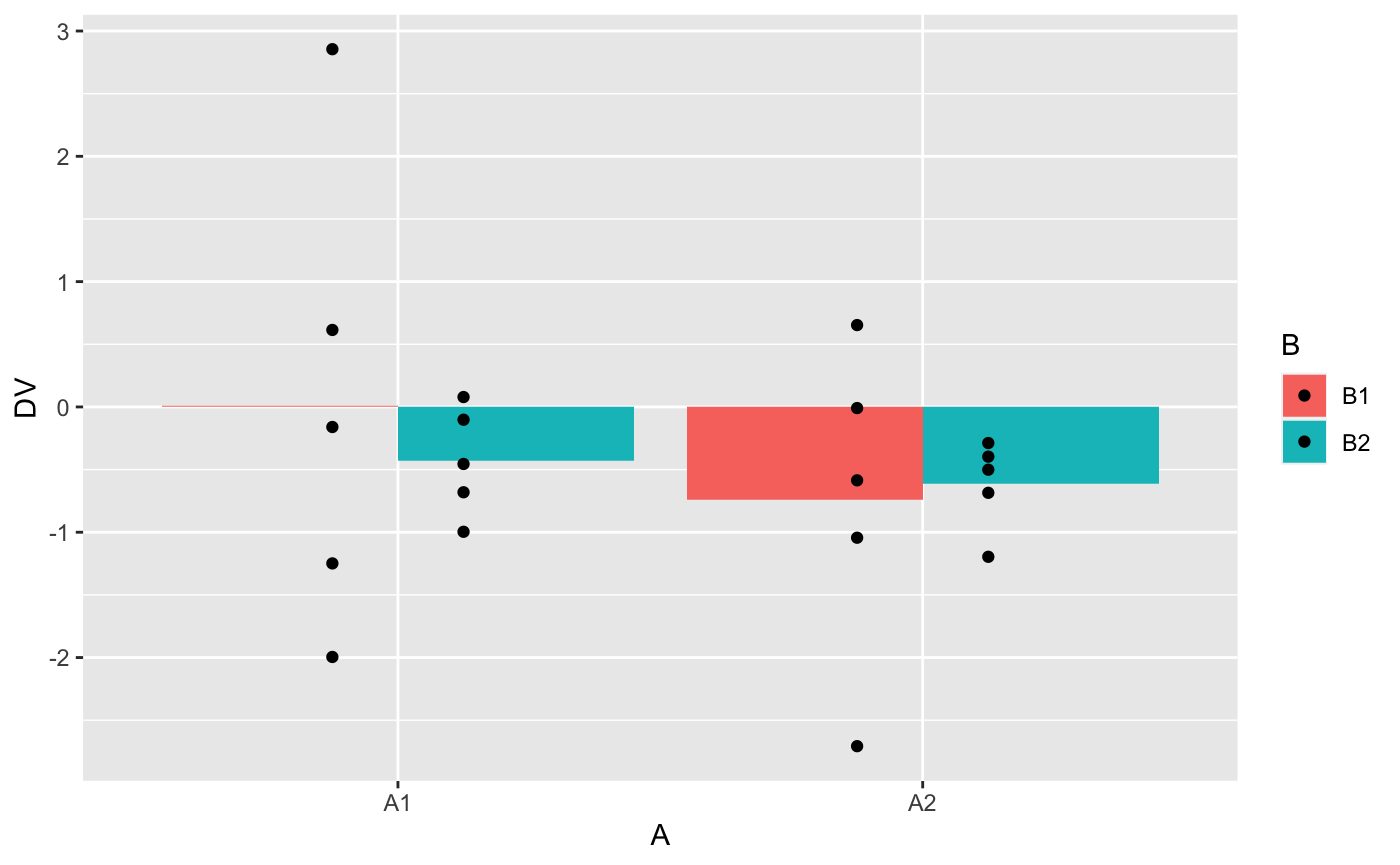
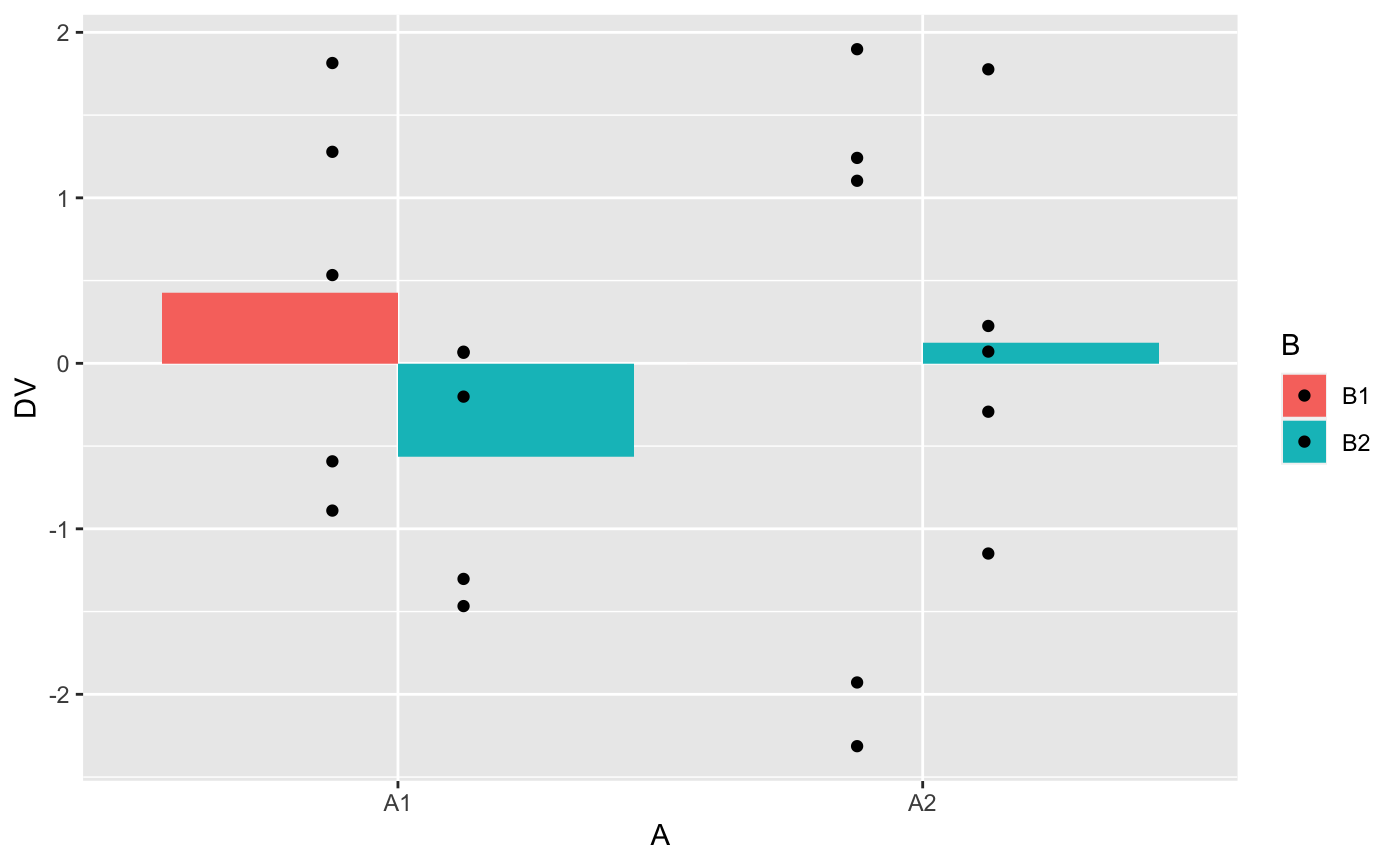
update factorial anova lab 7

diff --git a/docs/articles/Stats2/Lab7_Factorial_ANOVA.html b/docs/articles/Stats2/Lab7_Factorial_ANOVA.html
@@ -236,6 +236,8 @@
 <h2 class="hasAnchor">
 <a href="#reading" class="anchor"></a>Reading</h2>
 <p>Chapter 16 from <span class="citation"><a href="#ref-abdiExperimentalDesignAnalysis2009" role="doc-biblioref">Abdi et al.</a> (<a href="#ref-abdiExperimentalDesignAnalysis2009" role="doc-biblioref">2009</a>)</span>. See also Chapters <a href="https://crumplab.github.io/statistics/factorial-anova.html">9</a> and <a href="https://crumplab.github.io/statistics/more-on-factorial-designs.html">10</a> from <span class="citation"><a href="#ref-crumpAnsweringQuestionsData2018" role="doc-biblioref">Crump et al.</a> (<a href="#ref-crumpAnsweringQuestionsData2018" role="doc-biblioref">2018</a>)</span> on factorial designs.</p>
+<iframe width="560" height="315" src="https://www.youtube.com/embed/hjQ3DC2dIcc" title="YouTube video player" frameborder="0" allow="accelerometer; autoplay; clipboard-write; encrypted-media; gyroscope; picture-in-picture" allowfullscreen>
+</iframe>
 </div>
 <div id="overview" class="section level2">
 <h2 class="hasAnchor">
@@ -269,34 +271,34 @@
 <p>In the example below I replaced each of the variable names with the names of the respective columns in the <code>factorial_data</code> tibble.</p>
 <div class="sourceCode" id="cb2"><html><body><pre class="r"><span class="no">aov_out</span> <span class="kw">&lt;-</span> <span class="fu"><a href="https://rdrr.io/r/stats/aov.html">aov</a></span>(<span class="no">DV</span> ~ <span class="no">A</span>*<span class="no">B</span>, <span class="kw">data</span> <span class="kw">=</span> <span class="no">factorial_data</span>)
 <span class="fu"><a href="https://rdrr.io/r/base/summary.html">summary</a></span>(<span class="no">aov_out</span>)
-<span class="co">#&gt;             Df Sum Sq Mean Sq F value  Pr(&gt;F)   </span>
-<span class="co">#&gt; A            1  0.299   0.299   0.885 0.36092   </span>
-<span class="co">#&gt; B            1  0.389   0.389   1.151 0.29916   </span>
-<span class="co">#&gt; A:B          1  4.891   4.891  14.491 0.00155 **</span>
-<span class="co">#&gt; Residuals   16  5.400   0.338                   </span>
+<span class="co">#&gt;             Df Sum Sq Mean Sq F value Pr(&gt;F)  </span>
+<span class="co">#&gt; A            1  4.328   4.328   7.178 0.0165 *</span>
+<span class="co">#&gt; B            1  0.021   0.021   0.034 0.8552  </span>
+<span class="co">#&gt; A:B          1  0.639   0.639   1.060 0.3185  </span>
+<span class="co">#&gt; Residuals   16  9.648   0.603                 </span>
 <span class="co">#&gt; ---</span>
 <span class="co">#&gt; Signif. codes:  0 '***' 0.001 '**' 0.01 '*' 0.05 '.' 0.1 ' ' 1</span>
 <span class="fu"><a href="https://rdrr.io/r/stats/model.tables.html">model.tables</a></span>(<span class="no">aov_out</span>, <span class="kw">type</span> <span class="kw">=</span> <span class="st">"means"</span>)
 <span class="co">#&gt; Tables of means</span>
 <span class="co">#&gt; Grand mean</span>
-<span class="co">#&gt;           </span>
-<span class="co">#&gt; 0.2416105 </span>
+<span class="co">#&gt;            </span>
+<span class="co">#&gt; -0.1605427 </span>
 <span class="co">#&gt; </span>
 <span class="co">#&gt;  A </span>
 <span class="co">#&gt; A</span>
-<span class="co">#&gt;     L1     L2 </span>
-<span class="co">#&gt; 0.1194 0.3638 </span>
+<span class="co">#&gt;      L1      L2 </span>
+<span class="co">#&gt; -0.6257  0.3047 </span>
 <span class="co">#&gt; </span>
 <span class="co">#&gt;  B </span>
 <span class="co">#&gt; B</span>
-<span class="co">#&gt;     L1     L2 </span>
-<span class="co">#&gt; 0.1022 0.3810 </span>
+<span class="co">#&gt;       L1       L2 </span>
+<span class="co">#&gt; -0.12834 -0.19275 </span>
 <span class="co">#&gt; </span>
 <span class="co">#&gt;  A:B </span>
 <span class="co">#&gt;     B</span>
 <span class="co">#&gt; A    L1      L2     </span>
-<span class="co">#&gt;   L1  0.4745 -0.2357</span>
-<span class="co">#&gt;   L2 -0.2701  0.9977</span></pre></body></html></div>
+<span class="co">#&gt;   L1 -0.4148 -0.8367</span>
+<span class="co">#&gt;   L2  0.1581  0.4512</span></pre></body></html></div>
 <p>Briefly, if you had factorial design with three IVs, you would another <code><a href="https://rdrr.io/r/base/Arithmetic.html">*</a></code> in the formula along with the name of the third IV. For example, <code>DV_name ~ IV1_name * IV2_name * IV3_name</code>.</p>
 </div>
 <div id="three-factor-example" class="section level3">
@@ -311,14 +313,14 @@
 
 <span class="fu"><a href="https://rdrr.io/r/base/summary.html">summary</a></span>(<span class="fu"><a href="https://rdrr.io/r/stats/aov.html">aov</a></span>(<span class="no">DV</span> ~ <span class="no">A</span>*<span class="no">B</span>*<span class="no">C</span>, <span class="kw">data</span> <span class="kw">=</span> <span class="no">factorial_data</span>))
 <span class="co">#&gt;             Df Sum Sq Mean Sq F value Pr(&gt;F)  </span>
-<span class="co">#&gt; A            1  0.049  0.0486   0.071 0.7932  </span>
-<span class="co">#&gt; B            1  0.232  0.2323   0.340 0.5680  </span>
-<span class="co">#&gt; C            1  0.407  0.4068   0.595 0.4517  </span>
-<span class="co">#&gt; A:B          1  2.797  2.7973   4.092 0.0601 .</span>
-<span class="co">#&gt; A:C          1  0.697  0.6969   1.019 0.3277  </span>
-<span class="co">#&gt; B:C          1  0.357  0.3573   0.523 0.4801  </span>
-<span class="co">#&gt; A:B:C        1  0.511  0.5113   0.748 0.3999  </span>
-<span class="co">#&gt; Residuals   16 10.937  0.6836                 </span>
+<span class="co">#&gt; A            1  2.959  2.9593   4.327 0.0539 .</span>
+<span class="co">#&gt; B            1  0.984  0.9835   1.438 0.2479  </span>
+<span class="co">#&gt; C            1  0.984  0.9836   1.438 0.2479  </span>
+<span class="co">#&gt; A:B          1  0.238  0.2383   0.348 0.5632  </span>
+<span class="co">#&gt; A:C          1  1.127  1.1269   1.648 0.2175  </span>
+<span class="co">#&gt; B:C          1  0.154  0.1543   0.226 0.6412  </span>
+<span class="co">#&gt; A:B:C        1  0.006  0.0056   0.008 0.9292  </span>
+<span class="co">#&gt; Residuals   16 10.942  0.6838                 </span>
 <span class="co">#&gt; ---</span>
 <span class="co">#&gt; Signif. codes:  0 '***' 0.001 '**' 0.01 '*' 0.05 '.' 0.1 ' ' 1</span></pre></body></html></div>
 </div>
@@ -343,12 +345,12 @@
   <span class="fu"><a href="https://dplyr.tidyverse.org/reference/summarise.html">summarise</a></span>(<span class="kw">mean_DV</span> <span class="kw">=</span> <span class="fu"><a href="https://rdrr.io/r/base/mean.html">mean</a></span>(<span class="no">DV</span>))
 <span class="co">#&gt; # A tibble: 4 x 3</span>
 <span class="co">#&gt; # Groups:   A [2]</span>
-<span class="co">#&gt;   A     B     mean_DV</span>
-<span class="co">#&gt;   &lt;fct&gt; &lt;fct&gt;   &lt;dbl&gt;</span>
-<span class="co">#&gt; 1 A1    B1     0.0130</span>
-<span class="co">#&gt; 2 A1    B2    -0.431 </span>
-<span class="co">#&gt; 3 A2    B1    -0.738 </span>
-<span class="co">#&gt; 4 A2    B2    -0.613</span>
+<span class="co">#&gt;   A     B       mean_DV</span>
+<span class="co">#&gt;   &lt;fct&gt; &lt;fct&gt;     &lt;dbl&gt;</span>
+<span class="co">#&gt; 1 A1    B1     0.429   </span>
+<span class="co">#&gt; 2 A1    B2    -0.567   </span>
+<span class="co">#&gt; 3 A2    B1     0.000157</span>
+<span class="co">#&gt; 4 A2    B2     0.126</span>
 
 <span class="co"># look at the means in a plot</span>
 <span class="no">factorial_data</span> <span class="kw">%&gt;%</span>
@@ -389,34 +391,34 @@
 <span class="no">aov_out</span> <span class="kw">&lt;-</span> <span class="fu"><a href="https://rdrr.io/r/stats/aov.html">aov</a></span>(<span class="no">DV</span> ~ <span class="no">A</span>*<span class="no">B</span>, <span class="kw">data</span> <span class="kw">=</span> <span class="no">factorial_data</span>)
 <span class="fu"><a href="https://rdrr.io/r/base/summary.html">summary</a></span>(<span class="no">aov_out</span>)
 <span class="co">#&gt;             Df Sum Sq Mean Sq F value Pr(&gt;F)</span>
-<span class="co">#&gt; A            1  1.090  1.0898   0.799  0.385</span>
-<span class="co">#&gt; B            1  0.127  0.1272   0.093  0.764</span>
-<span class="co">#&gt; A:B          1  0.405  0.4050   0.297  0.593</span>
-<span class="co">#&gt; Residuals   16 21.817  1.3636</span>
+<span class="co">#&gt; A            1  0.088  0.0878   0.051  0.825</span>
+<span class="co">#&gt; B            1  0.946  0.9461   0.547  0.470</span>
+<span class="co">#&gt; A:B          1  1.575  1.5747   0.910  0.354</span>
+<span class="co">#&gt; Residuals   16 27.694  1.7309</span>
 
 <span class="co"># ANOVA means</span>
 <span class="co"># print to console</span>
 <span class="fu"><a href="https://rdrr.io/r/stats/model.tables.html">model.tables</a></span>(<span class="no">aov_out</span>, <span class="kw">type</span> <span class="kw">=</span> <span class="st">"means"</span>)
 <span class="co">#&gt; Tables of means</span>
 <span class="co">#&gt; Grand mean</span>
-<span class="co">#&gt;            </span>
-<span class="co">#&gt; -0.4424919 </span>
+<span class="co">#&gt;              </span>
+<span class="co">#&gt; -0.003016284 </span>
 <span class="co">#&gt; </span>
 <span class="co">#&gt;  A </span>
 <span class="co">#&gt; A</span>
-<span class="co">#&gt;      A1      A2 </span>
-<span class="co">#&gt; -0.2091 -0.6759 </span>
+<span class="co">#&gt;       A1       A2 </span>
+<span class="co">#&gt; -0.06929  0.06326 </span>
 <span class="co">#&gt; </span>
 <span class="co">#&gt;  B </span>
 <span class="co">#&gt; B</span>
-<span class="co">#&gt;      B1      B2 </span>
-<span class="co">#&gt; -0.3627 -0.5222 </span>
+<span class="co">#&gt;       B1       B2 </span>
+<span class="co">#&gt;  0.21448 -0.22051 </span>
 <span class="co">#&gt; </span>
 <span class="co">#&gt;  A:B </span>
 <span class="co">#&gt;     B</span>
 <span class="co">#&gt; A    B1      B2     </span>
-<span class="co">#&gt;   A1  0.0130 -0.4311</span>
-<span class="co">#&gt;   A2 -0.7385 -0.6134</span></pre></body></html></div>
+<span class="co">#&gt;   A1  0.4288 -0.5674</span>
+<span class="co">#&gt;   A2  0.0002  0.1264</span></pre></body></html></div>
 </div>
 </div>
 <div id="practical-2-textbook-examples" class="section level2">
@@ -530,7 +532,7 @@
 <a href="#conceptual-1-factorial-anova-and-family-wise-error" class="anchor"></a>Conceptual 1: Factorial ANOVA and family-wise error</h2>
 <p>Factorial designs include multiple independent variables and their interactions. As the number of independent variables increase, the number of independent tests also increase. For example, in a 2x2 design, there are three independent tests: one for each main effect, and one for the interaction.</p>
 <p>Here we consider family-wise error rate issue with factorial ANOVAs. We will conduct a simulation of the null model for 10,000 2x2 ANOVAs. For each simulation we will record the p-value for each main effect and interaction. We will set an alpha criterion of p &lt; .05. Our question is: out of 10,000 simulated experiments, how many type 1 errors will be made?</p>
-<p>Remember, in a one-factor ANOVA, by definition the number of type errors made by the null should be the same as the alpha criterion, or 5% in our case. Will this also be true for the 2x2 factorial ANOVA?</p>
+<p>Remember, in a one-factor ANOVA, by definition the number of type I errors made by the null should be the same as the alpha criterion, or 5% in our case. Will this also be true for the 2x2 factorial ANOVA?</p>
 <div class="sourceCode" id="cb11"><html><body><pre class="r"><span class="co"># set up tibble to save simulation values</span>
 <span class="no">save_sim</span> <span class="kw">&lt;-</span> <span class="fu"><a href="https://dplyr.tidyverse.org/reference/reexports.html">tibble</a></span>()
 
@@ -554,8 +556,13 @@
   <span class="no">save_sim</span> <span class="kw">&lt;-</span><span class="fu"><a href="https://rdrr.io/r/base/cbind.html">rbind</a></span>(<span class="no">save_sim</span>,<span class="no">sim_tibble</span>)
 }</pre></body></html></div>
 <p>What proportion of the total number of simulated experiments made a type 1 error?</p>
-<div class="sourceCode" id="cb12"><html><body><pre class="r"><span class="fu"><a href="https://rdrr.io/r/base/length.html">length</a></span>(<span class="no">save_sim</span>$<span class="no">p_vals</span>[<span class="no">save_sim</span>$<span class="no">p_vals</span> <span class="kw">&lt;</span> <span class="fl">.05</span>])/<span class="fl">10000</span>
-<span class="co">#&gt; [1] 0.1534</span></pre></body></html></div>
+<div class="sourceCode" id="cb12"><html><body><pre class="r"><span class="no">type_I_errors</span> <span class="kw">&lt;-</span> <span class="no">save_sim</span> <span class="kw">%&gt;%</span>
+  <span class="fu"><a href="https://dplyr.tidyverse.org/reference/filter.html">filter</a></span>(<span class="no">p_vals</span> <span class="kw">&lt;</span> <span class="fl">.05</span>) <span class="kw">%&gt;%</span>
+  <span class="fu"><a href="https://dplyr.tidyverse.org/reference/group_by.html">group_by</a></span>(<span class="no">sim</span>) <span class="kw">%&gt;%</span>
+  <span class="fu"><a href="https://dplyr.tidyverse.org/reference/count.html">count</a></span>()
+
+<span class="fu"><a href="https://rdrr.io/r/base/dim.html">dim</a></span>(<span class="no">type_I_errors</span>)[<span class="fl">1</span>]/<span class="fl">10000</span>
+<span class="co">#&gt; [1] 0.1376</span></pre></body></html></div>
 <p>If we look at the type I error rates separately for each main effect and interaction what do we find?</p>
 <div class="sourceCode" id="cb13"><html><body><pre class="r"><span class="no">save_sim</span> <span class="kw">%&gt;%</span>
   <span class="fu"><a href="https://dplyr.tidyverse.org/reference/group_by.html">group_by</a></span>(<span class="no">effect</span>) <span class="kw">%&gt;%</span>
@@ -563,18 +570,20 @@
 <span class="co">#&gt; # A tibble: 3 x 2</span>
 <span class="co">#&gt;   effect type_I_error</span>
 <span class="co">#&gt;   &lt;chr&gt;         &lt;dbl&gt;</span>
-<span class="co">#&gt; 1 A            0.05  </span>
-<span class="co">#&gt; 2 AxB          0.0515</span>
-<span class="co">#&gt; 3 B            0.0519</span></pre></body></html></div>
+<span class="co">#&gt; 1 A            0.0477</span>
+<span class="co">#&gt; 2 AxB          0.0498</span>
+<span class="co">#&gt; 3 B            0.0523</span></pre></body></html></div>
 <p>The conclusion here is Factorial ANOVAs are not protected against family-wise type I error rate. As you increase the number of IVs, you will increase the likelihood of finding at least one “significant” effect among the main effects and interactions.</p>
 <p>Finally, here’s a quick alternative simulation using <code><a href="https://rdrr.io/r/stats/Binomial.html">rbinom()</a></code>. I set the number of simulations to 10000, the size to 3 (representing three independent tests), and I set the probability of getting 1 to .05. Last, I counted how many of results had a value greater than 0 (representing a type I error), and divided by 10000 (the number of simulations) to estimate the family-wise error rate.</p>
-<div class="sourceCode" id="cb14"><html><body><pre class="r"><span class="no">a</span><span class="kw">&lt;-</span><span class="fu"><a href="https://rdrr.io/r/stats/Binomial.html">rbinom</a></span>(<span class="fl">10000</span>,<span class="fl">3</span>,<span class="fl">.05</span>)
+<div class="sourceCode" id="cb14"><html><body><pre class="r"><span class="no">a</span> <span class="kw">&lt;-</span> <span class="fu"><a href="https://rdrr.io/r/stats/Binomial.html">rbinom</a></span>(<span class="fl">10000</span>,<span class="fl">3</span>,<span class="fl">.05</span>)
 <span class="fu"><a href="https://rdrr.io/r/base/length.html">length</a></span>(<span class="no">a</span>[<span class="no">a</span><span class="kw">&gt;</span><span class="fl">0</span>])/<span class="fl">10000</span>
-<span class="co">#&gt; [1] 0.1396</span></pre></body></html></div>
+<span class="co">#&gt; [1] 0.142</span></pre></body></html></div>
 </div>
 <div id="lab-7-generalization-assignment" class="section level2">
 <h2 class="hasAnchor">
 <a href="#lab-7-generalization-assignment" class="anchor"></a>Lab 7 Generalization Assignment</h2>
+<iframe width="560" height="315" src="https://www.youtube.com/embed/MLYxtyahY14" title="YouTube video player" frameborder="0" allow="accelerometer; autoplay; clipboard-write; encrypted-media; gyroscope; picture-in-picture" allowfullscreen>
+</iframe>
 <div id="instructions" class="section level3">
 <h3 class="hasAnchor">
 <a href="#instructions" class="anchor"></a>Instructions</h3>
